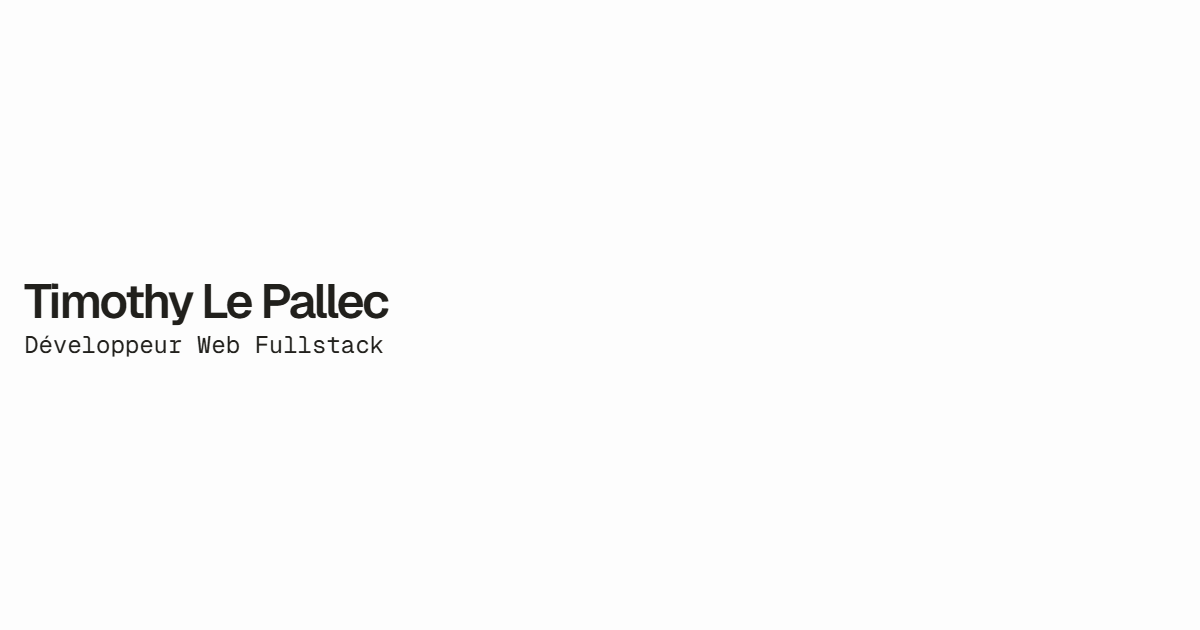
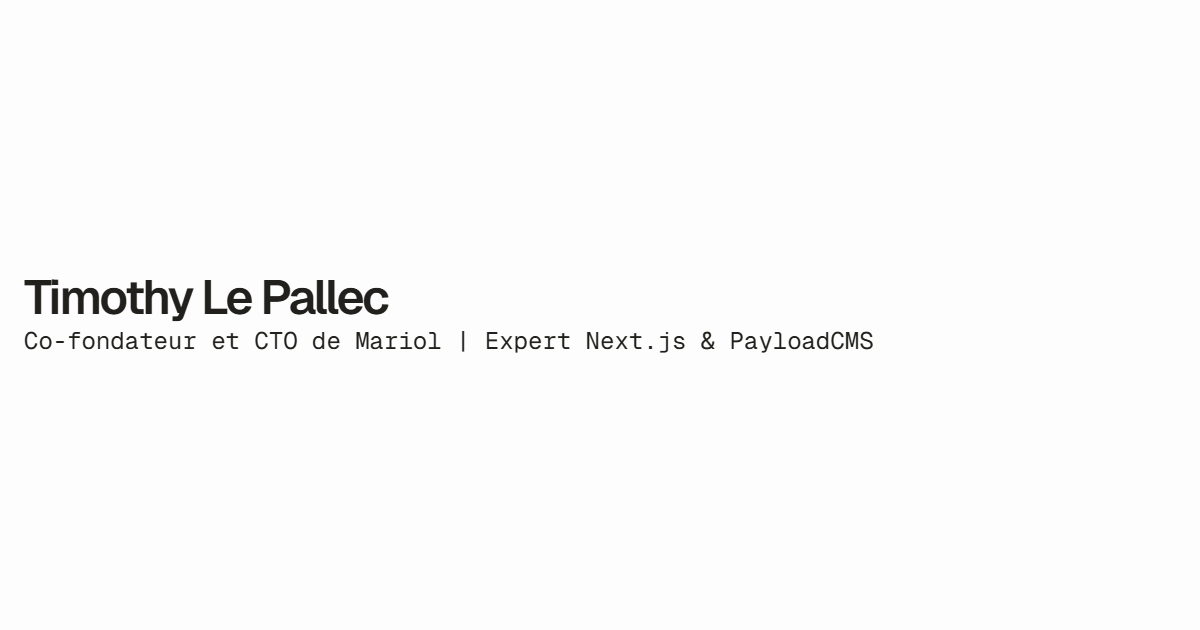
Changement co-fondateur et og

Changed region(s): [[0.0, 0.4222, 0.37, 0.573], [0.555, 0.5127, 0.74, 0.573], [0.4008, 0.5127, 0.5242, 0.573]]

diff --git a/app/layout.tsx b/app/layout.tsx
@@ -23,11 +23,11 @@ const geistMono = Geist_Mono({
 export const metadata: Metadata = {
 	metadataBase: new URL(BASE_URL),
 	title: {
-		default: "Timothy Le Pallec | Expert Next.js & PayloadCMS | Fondateur de Mariol",
+		default: "Timothy Le Pallec | Co-fondateur et CTO de Mariol | Expert Next.js & PayloadCMS",
 		template: "%s | Timothy Le Pallec",
 	},
 	description:
-		"Expert en architectures Next.js et PayloadCMS. Fondateur de Mariol, je conçois des solutions web haute performance alliant simplicité d'usage et excellence technique.",
+		"Expert en architectures Next.js et PayloadCMS. Co-fondateur et CTO de Mariol, je conçois des solutions web haute performance alliant simplicité d'usage et excellence technique.",
 	keywords: [
 		"Timothy Le Pallec",
 		"Next.js",
@@ -46,7 +46,7 @@ export const metadata: Metadata = {
 	openGraph: {
 		title: "Timothy Le Pallec",
 		description:
-			"Expert en architectures Next.js et PayloadCMS. Fondateur de Mariol, je conçois des solutions web haute performance alliant simplicité d'usage et excellence technique.",
+			"Expert en architectures Next.js et PayloadCMS. Co-fondateur et CTO de Mariol, je conçois des solutions web haute performance alliant simplicité d'usage et excellence technique.",
 		url: BASE_URL,
 		siteName: "Timothy Le Pallec",
 		locale: "fr_FR",

diff --git a/components/rich-snippets.tsx b/components/rich-snippets.tsx
@@ -18,9 +18,9 @@ function generatePersonRichSnippet() {
 		name: "Timothy Le Pallec",
 		url: BASE_URL,
 		sameAs: [SOCIALS.github.href, SOCIALS.x.href],
-		jobTitle: "Fondateur de Mariol | Expert Next.js & PayloadCMS",
+		jobTitle: "Co-fondateur et CTO de Mariol | Expert Next.js & PayloadCMS",
 		description:
-			"Expert en architectures Next.js et PayloadCMS. Fondateur de Mariol, je conçois des solutions web haute performance alliant simplicité d'usage et excellence technique.",
+			"Expert en architectures Next.js et PayloadCMS. Co-fondateur et CTO de Mariol, je conçois des solutions web haute performance alliant simplicité d'usage et excellence technique.",
 		worksFor: {
 			"@type": "Organization",
 			name: "Mariol",
@@ -39,7 +39,7 @@ function generateWebSiteRichSnippet() {
 		name: "Timothy Le Pallec",
 		url: BASE_URL,
 		description:
-			"Expert en architectures Next.js et PayloadCMS. Fondateur de Mariol, je conçois des solutions web haute performance alliant simplicité d'usage et excellence technique.",
+			"Expert en architectures Next.js et PayloadCMS. Co-fondateur et CTO de Mariol, je conçois des solutions web haute performance alliant simplicité d'usage et excellence technique.",
 		author: {
 			"@type": "Person",
 			name: "Timothy Le Pallec",

diff --git a/app/og/page.tsx b/app/og/page.tsx
@@ -5,7 +5,7 @@ export default function OGImage() {
 	if (process.env.NODE_ENV === "production") notFound();
 
 	const title = "Timothy Le Pallec";
-	const description = "Développeur Web Fullstack";
+	const description = "Co-fondateur et CTO de Mariol | Expert Next.js & PayloadCMS";
 
 	return (
 		<div className="absolute inset-0 flex h-screen w-screen flex-col items-center justify-center gap-4 bg-black">

diff --git a/components/header.tsx b/components/header.tsx
@@ -8,7 +8,7 @@ export function Header() {
 				<h1 className="flex flex-col">
 					<span className="font-semibold text-2xl tracking-tighter">Timothy Le Pallec</span>
 					<span className="sr-only"> - </span>
-					<span className="font-mono">Développeur Web Fullstack</span>
+					<span className="font-mono">Co-fondateur et CTO de Mariol</span>
 				</h1>
 				<Socials />
 			</div>
